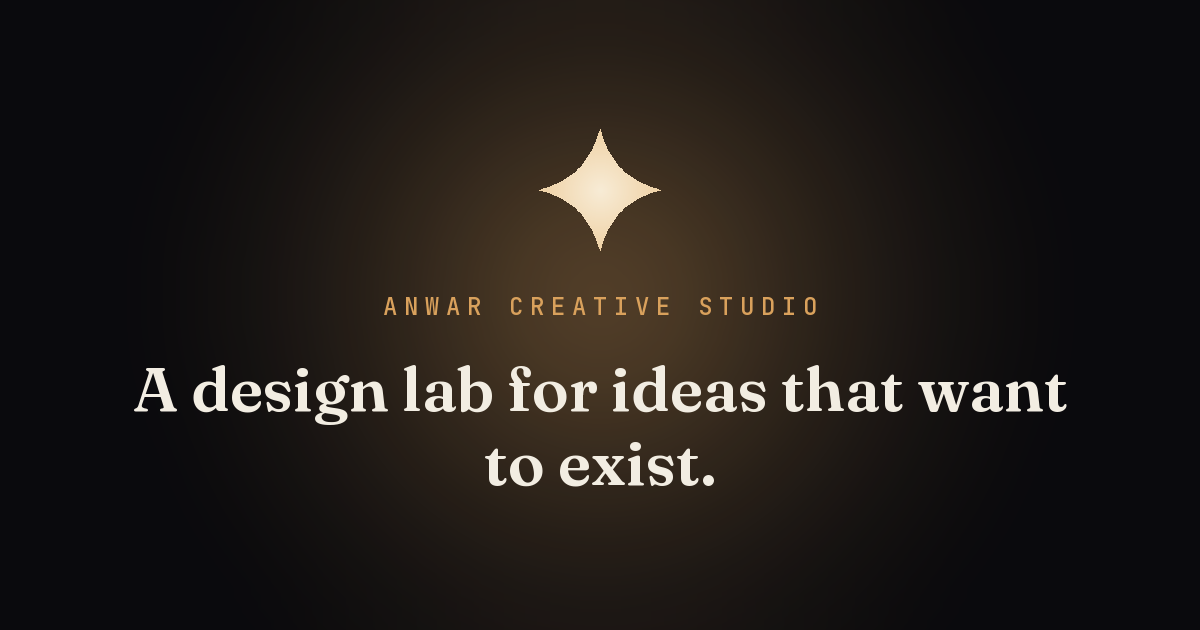
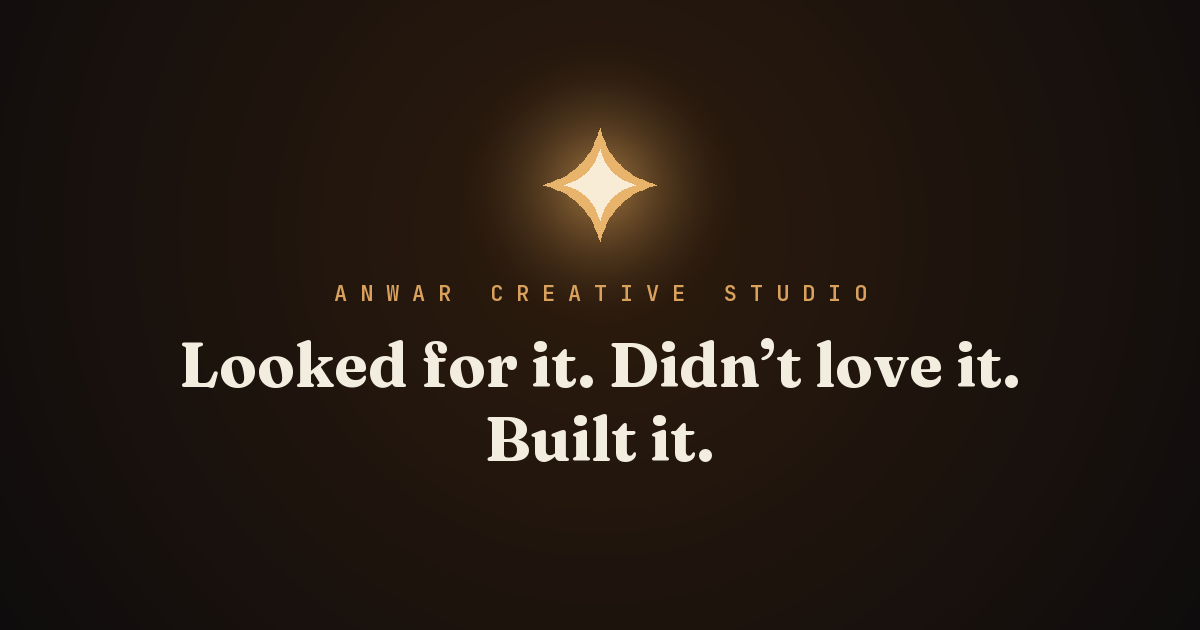
Replace the tagline everywhere: "Looked for it. Didn't love it. Built it."
Retired "A design lab for ideas that want to exist." after a long
back-and-forth: the opening reused generic studio-branding vocabulary
already redundant with the company name, and the closing personification
sat too close to "bringing ideas to life," a flagged cliche in this exact
space. The new line is a real three-beat story (search, reaction,
resolution), makes no claim about any other product being unfinished or
worse (just a personal reaction, "didn't love it"), and doesn't imply
these are personal-only tools since only the motivation is personal, not
the audience.

Updated everywhere it appeared: Hero h1, Footer h2, index.html's
description/og:description/twitter:description, and the console banner.
Also regenerated og-image.png, which had the old line rendered as actual
pixels, not just meta text. Re-fetched the real Fraunces/JetBrains Mono
TTFs and rebuilt the composition from scratch in Pillow, reproducing the
actual favicon sparkle mark via its real quadratic-bezier path (not an
approximation) so the brand mark stays pixel-accurate.

Changed region(s): [[0.0925, 0.4222, 0.8942, 0.7841], [0.4317, 0.181, 0.555, 0.3921]]

diff --git a/index.html b/index.html
@@ -10,13 +10,13 @@
     <meta name="apple-mobile-web-app-status-bar-style" content="black-translucent" />
     <meta name="apple-mobile-web-app-title" content="Anwar Creative" />
     <meta name="mobile-web-app-capable" content="yes" />
-    <meta name="description" content="Anwar Creative Studio Portfolio: a design lab for ideas that want to exist." />
+    <meta name="description" content="Anwar Creative Studio Portfolio: looked for it, didn't love it, built it." />
     <link rel="canonical" href="https://tamkin-anwar.github.io/anwar-creative-studio-portfolio/" />
 
     <meta property="og:type" content="website" />
     <meta property="og:site_name" content="Anwar Creative Studio" />
     <meta property="og:title" content="Anwar Creative Studio" />
-    <meta property="og:description" content="A design lab for ideas that want to exist." />
+    <meta property="og:description" content="Looked for it. Didn't love it. Built it." />
     <meta property="og:url" content="https://tamkin-anwar.github.io/anwar-creative-studio-portfolio/" />
     <meta property="og:image" content="https://tamkin-anwar.github.io/anwar-creative-studio-portfolio/og-image.png" />
     <meta property="og:image:width" content="1200" />
@@ -24,7 +24,7 @@
 
     <meta name="twitter:card" content="summary_large_image" />
     <meta name="twitter:title" content="Anwar Creative Studio" />
-    <meta name="twitter:description" content="A design lab for ideas that want to exist." />
+    <meta name="twitter:description" content="Looked for it. Didn't love it. Built it." />
     <meta name="twitter:image" content="https://tamkin-anwar.github.io/anwar-creative-studio-portfolio/og-image.png" />
 
     <!-- self-hosted, see src/styles/fonts.css: no third-party font request

diff --git a/src/lib/consoleEasterEgg.ts b/src/lib/consoleEasterEgg.ts
@@ -17,7 +17,7 @@ export function printConsoleEasterEgg() {
     `${bg}${ink}${mono}font-size:20px;font-weight:700;letter-spacing:3px;padding:2px 0 8px;`,
   )
   console.log(
-    '%cA design lab for ideas that want to exist.',
+    "%cLooked for it. Didn't love it. Built it.",
     `${bg}${cool}${mono}font-style:italic;font-size:13px;padding-bottom:8px;`,
   )
   console.log(

diff --git a/src/components/sections/Footer.tsx b/src/components/sections/Footer.tsx
@@ -32,7 +32,7 @@ export function Footer() {
         className="max-w-xl leading-[1.1]"
         style={{ fontSize: 'var(--text-heading)' }}
       >
-        A design lab for ideas that want to exist.
+        Looked for it. Didn&rsquo;t love it. Built it.
       </h2>
 
       <div data-reveal className="flex flex-col items-center gap-[var(--space-3)]">

diff --git a/src/components/sections/Hero.tsx b/src/components/sections/Hero.tsx
@@ -59,7 +59,7 @@ export function Hero() {
           className="max-w-3xl leading-[1.05]"
           style={{ fontSize: 'var(--text-display)' }}
         >
-          A design lab for ideas that want to exist.
+          Looked for it. Didn&rsquo;t love it. Built it.
         </h1>
       </div>
 
